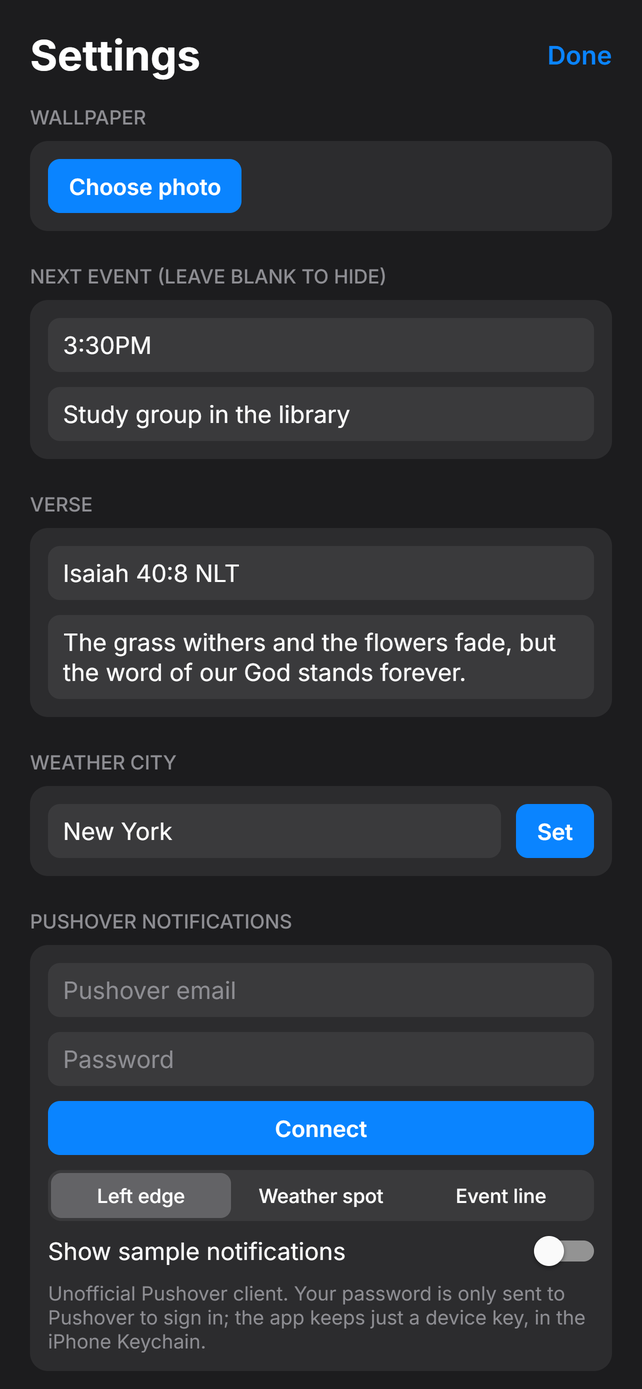
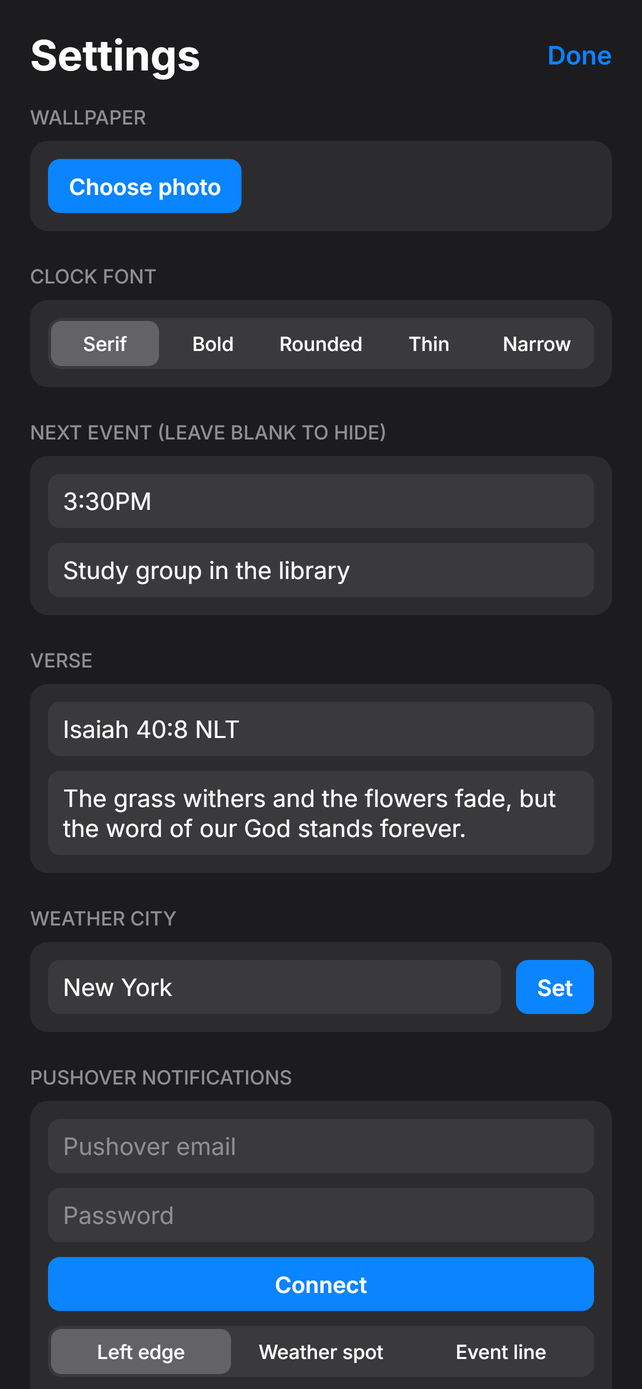
Add clock font choices and show the month when the date is alone

diff --git a/src/fonts.ts b/src/fonts.ts
@@ -1,21 +1,41 @@
 import { Fraunces_500Medium } from '@expo-google-fonts/fraunces';
 import {
+  Inter_200ExtraLight,
   Inter_400Regular,
   Inter_500Medium,
   Inter_600SemiBold,
   Inter_700Bold,
 } from '@expo-google-fonts/inter';
+import { Nunito_800ExtraBold } from '@expo-google-fonts/nunito';
+import { Oswald_500Medium } from '@expo-google-fonts/oswald';
 import { Platform, type TextStyle } from 'react-native';
 
 export const fontAssets = {
   Fraunces_500Medium,
+  Inter_200ExtraLight,
   Inter_400Regular,
   Inter_500Medium,
   Inter_600SemiBold,
   Inter_700Bold,
+  Nunito_800ExtraBold,
+  Oswald_500Medium,
 };
 
-export const clockFont = 'Fraunces_500Medium';
+const isIOS = Platform.OS === 'ios';
+
+export type ClockFont = 'serif' | 'bold' | 'rounded' | 'thin' | 'narrow';
+type ClockFontStyle = { label: string; family?: string; weight?: '200' | '600'; size: number };
+
+// Sizes give every font the same digit height (~91 pt), so the layout never
+// shifts. "Bold" and "Thin" use San Francisco on iPhone, like the real lock
+// screen, and Inter elsewhere.
+export const clockFonts: Record<ClockFont, ClockFontStyle> = {
+  serif: { label: 'Serif', family: 'Fraunces_500Medium', size: 126 },
+  bold: isIOS ? { label: 'Bold', weight: '600', size: 129 } : { label: 'Bold', family: 'Inter_700Bold', size: 124 },
+  rounded: { label: 'Rounded', family: 'Nunito_800ExtraBold', size: 127 },
+  thin: isIOS ? { label: 'Thin', weight: '200', size: 129 } : { label: 'Thin', family: 'Inter_200ExtraLight', size: 125 },
+  narrow: { label: 'Narrow', family: 'Oswald_500Medium', size: 112 },
+};
 
 const inter = {
   '400': 'Inter_400Regular',
@@ -26,5 +46,5 @@ const inter = {
 
 /** San Francisco on iPhone; Inter elsewhere (web preview, Android) as a lookalike. */
 export function sans(weight: keyof typeof inter): TextStyle {
-  return Platform.OS === 'ios' ? { fontWeight: weight } : { fontFamily: inter[weight] };
+  return isIOS ? { fontWeight: weight } : { fontFamily: inter[weight] };
 }

diff --git a/src/components/SettingsSheet.tsx b/src/components/SettingsSheet.tsx
@@ -2,7 +2,7 @@ import { useState } from 'react';
 import { Modal, Pressable, ScrollView, StyleSheet, Text, View } from 'react-native';
 
 import type { Placement } from '../config';
-import { sans } from '../fonts';
+import { type ClockFont, clockFonts, sans } from '../fonts';
 import { deleteWallpaper, pickWallpaper, useSettings } from '../settings';
 import { findCity } from '../weather';
 import { PushoverSignIn } from './PushoverSignIn';
@@ -13,6 +13,11 @@ const PLACEMENTS: { value: Placement; label: string }[] = [
   { value: 'weather', label: 'Weather spot' },
   { value: 'event', label: 'Event line' },
 ];
+
+const CLOCK_FONTS = (Object.keys(clockFonts) as ClockFont[]).map((value) => ({
+  value,
+  label: clockFonts[value].label,
+}));
 
 const DIM_DELAYS = [
   { value: 15, label: '15 sec' },
@@ -64,6 +69,14 @@ export function SettingsSheet({ visible, onClose }: { visible: boolean; onClose:
               <Button label="Choose photo" onPress={chooseWallpaper} />
               {settings.wallpaper && <Button label="Use default" onPress={resetWallpaper} />}
             </View>
+          </Section>
+
+          <Section title="Clock font">
+            <Segments
+              options={CLOCK_FONTS}
+              value={settings.clockFont}
+              onChange={(clockFont) => update({ clockFont })}
+            />
           </Section>
 
           <Section title="Next event (leave blank to hide)">

diff --git a/src/components/Clock.tsx b/src/components/Clock.tsx
@@ -1,19 +1,26 @@
 import { useWindowDimensions } from 'react-native';
 import Svg, { Defs, G, LinearGradient, Stop, Text } from 'react-native-svg';
 
-import { clockFont } from '../fonts';
+import { clockFonts } from '../fonts';
+import { useSettings } from '../settings';
 import { formatClock } from '../time';
 
-const FONT_SIZE = 126;
 const HEIGHT = 112;
 const BASELINE = 101;
 
 /** The big glassy clock: a white-to-periwinkle gradient over a bright top rim and a soft bottom edge. */
 export function Clock({ now }: { now: Date }) {
   const { width } = useWindowDimensions();
+  const font = clockFonts[useSettings().settings.clockFont];
   const time = formatClock(now);
   const cx = width / 2;
-  const text = { x: cx, fontFamily: clockFont, fontSize: FONT_SIZE, textAnchor: 'middle' as const };
+  const text = {
+    x: cx,
+    fontFamily: font.family,
+    fontWeight: font.weight,
+    fontSize: font.size,
+    textAnchor: 'middle' as const,
+  };
 
   return (
     <Svg width={width} height={HEIGHT}>

diff --git a/src/time.ts b/src/time.ts
@@ -2,6 +2,7 @@ import { useEffect, useState } from 'react';
 import { AppState } from 'react-native';
 
 const DAYS = ['Sun', 'Mon', 'Tue', 'Wed', 'Thu', 'Fri', 'Sat'];
+const MONTHS = ['Jan', 'Feb', 'Mar', 'Apr', 'May', 'Jun', 'Jul', 'Aug', 'Sep', 'Oct', 'Nov', 'Dec'];
 
 const minuteOf = (date: Date) => Math.floor(date.getTime() / 60_000);
 
@@ -37,7 +38,8 @@ export function formatClock(date: Date) {
   return `${hours}:${minutes}`;
 }
 
-/** "Wed 18" */
-export function formatDay(date: Date) {
-  return `${DAYS[date.getDay()]} ${date.getDate()}`;
+/** "Wed 18", or "Wed Nov 18" when the line has room (nothing else next to it). */
+export function formatDay(date: Date, withMonth = false) {
+  const month = withMonth ? ` ${MONTHS[date.getMonth()]}` : '';
+  return `${DAYS[date.getDay()]}${month} ${date.getDate()}`;
 }

diff --git a/src/config.ts b/src/config.ts
@@ -1,3 +1,5 @@
+import type { ClockFont } from './fonts';
+
 // Defaults for a fresh install. Everything here can be changed on the phone:
 // long-press the lock screen to open Settings. Changes are saved on the device
 // only, so nothing personal ever needs to go in this file.
@@ -10,6 +12,7 @@ export type Placement = 'edge' | 'weather' | 'event';
 
 export const defaults = {
   wallpaper: null as string | null, // a photo picked in Settings; null uses assets/wallpaper.jpg
+  clockFont: 'serif' as ClockFont,
   eventTime: '3:30PM',
   eventTitle: 'Study group in the library',
   verseReference: 'Isaiah 40:8 NLT',

diff --git a/src/components/DateLine.tsx b/src/components/DateLine.tsx
@@ -19,7 +19,7 @@ export function DateLine({ now, note, onNotePress }: Props) {
 
   return (
     <View style={styles.row}>
-      <Text style={[styles.text, styles.day]}>{formatDay(now)}</Text>
+      <Text style={[styles.text, styles.day]}>{formatDay(now, !note && !hasEvent)}</Text>
       {(note || hasEvent) && (
         <MaterialCommunityIcons
           name={note ? 'bell' : 'calendar-month'}

diff --git a/README.md b/README.md
@@ -52,7 +52,8 @@ Save any file and the app on the phone reloads by itself.
 Press and hold anywhere on the lock screen to open **Settings**. There you can:
 
 - **Choose a wallpaper** from your Photos. It's copied into the app's own storage. **Use default** goes back to the built-in gradient.
-- Set the **next event** (time and title). Leave both blank to hide it.
+- Pick a **clock font**: Serif, Bold, Rounded, Thin or Narrow. Bold and Thin use San Francisco, the iPhone's own lock screen font.
+- Set the **next event** (time and title). Leave both blank to hide it, and the date then shows the month too ("Wed Nov 18").
 - Set the **verse** reference and text.
 - Set the **weather city**. Type a name and tap **Set**; it's looked up with Open-Meteo's free geocoder.
 - Pick where **Pushover notifications** show, and turn sample notifications on to preview them.
